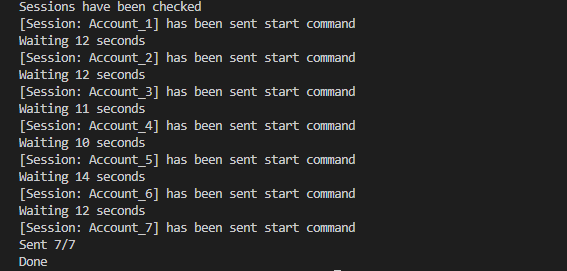
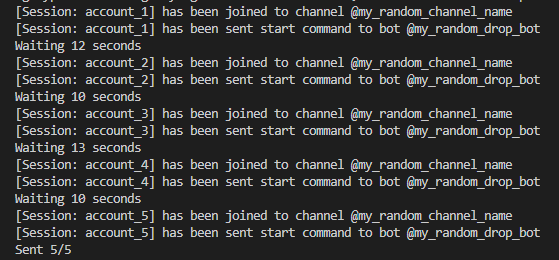
Update README.md and screenshot

Changed region(s): [[0.0, 0.0, 0.9732, 0.9846], [0.5778, 0.9846, 0.6082, 1.0]]

diff --git a/classes/main.py b/classes/main.py
@@ -82,7 +82,7 @@ class Main(Proxies, Tokens):
                         if (self.join_to_channel()):
                             print("[Session: " + token[0] + "] has been joined to channel @" + str(self.channel_name))
                     if (self.start_bot()):
-                        print("[Session: " + token[0] + "] has been sent start command")
+                        print("[Session: " + token[0] + "] has been sent start command to bot @" + str(self.target_name))
                         counter = counter + 1
                     else:
                         print("[Session: " + token[0] + "] has NOT been sent start command")

diff --git a/README.md b/README.md
@@ -1,64 +1,57 @@
 # Telegram Referral Bot
-Help to add telegram accounts with referral code to bots which have referral system 
+Script to add Telegram accounts as referrals to bots, using your invite code
 
 ![Screenshoot](https://github.com/svtcore/telegram-referral-bot/blob/main/screenshot.png)
 
-## Installation
+### 1. Install necessary libraries
 ```
 pip install -r requirements.txt
 ```
-
-## Setup
-
-### 1. Open .env file and edit values
-
+### 2. Open the .env file and edit the data according to your needs
 Description for fileds
+ - **BOT_NAME** - The public name of the bot without the @ symbol (e.g., example_random_bot)
+ - **COUNT** - The quantity of accounts to be used
+ - **REFER_ID** - Your referral ID obtained from the bot (e.g., t.me/example_random_bot?start=12345, ONLY set 12345)
+ - **CHANNEL_NAME** - The username of the channel that must be joined [OPTIONAL]
+ - **DELAY_MIN** - The minimum delay in seconds between each account's operation
+ - **DELAY_MAX** - The maximum delay in seconds between each account's operation
 
-**BOT_NAME** - public name of bot without @ symbol (example_random_bot)
-
-**COUNT** - quantity of account which will be used
-
-**REFER_ID** - your referal ID which you got from bot (t.me/example_random_bot?start=12345 , set ONLY 12345)
-
-**JOIN_CHANNEL** - enabled/disable function to join channel bot if it's required. Default is 0, to enable set 1 [OPTIONAL]
-
-**CHANNEL_NAME** - username of channel which must to be joined. Works when **JOIN_CHANNEL** is set 1 [OPTIONAL]
-
-**DELAY_MIN** - minimum delay in seconds between working each account
-
-**DELAY_MAX** - maximum delay in seconds between working each account
-
-**AUTH** - set 1 if you don't have sessions files in folder ./sessions otherwise 0
-
-**RUN** - set 1 if you have session files and want start script  
-
-### 2. Put tokens into file tokens.txt in format
+### 3. Retrieve the API_ID and API_HASH for each account
+ - Go to https://my.telegram.org. Log in to the site and create a new application; it will provide you with your credentials
+### 4. Create a file for your credentials, such as accounts.txt, and input the data in the following format:
+Example
 ```
-session_name:API_ID:API_HASH
-#example
-my_session_1:9863729:dc5795b76bdc05e1e6c653742c5ba530
+SESSION_NAME:API_ID:API_HASH
+MY_ACCOUNT_1:11223344:d54d1702ad0f8326224b817c796763c9
 ```
-(How get API_ID and API_HASH follow https://my.telegram.org autorize, create application and you will get credentials)
-
-### 3. Put proxies into file proxy.txt
-There are 3 diffrent format for proxies (ONLY SOCKS5)
+### 5. If you plan to use a proxy, create a file for it in this format:
 ```
 NO PROXY (leave file empty)
 IP:PORT
 IP:PORT:LOGIN:PASSWORD
 ```
-
-If you don't have session files in folder **sessions** you must set params AUTH=1 , RUN=1, otherwise  AUTH=0, RUN=1
-
-### 4. Run file bot.py
-
+### 6. Create session files and authorize on each account
 ```
-python bot.py
+python bot.py --auth --tokens accounts.txt
 ```
-### 5. After run script you should autorize on each account then you will get session files into folder sessions and bot starts add with your referal code
+### 7. After authorization is complete, session files will be generated in the 'sessions' folder
+### 8. Run the script to begin inviting accounts using your referral code
+```
+python bot.py --run --tokens accounts.txt
+```
+or with proxy
+```
+python bot.py --run --tokens accounts.txt --proxies proxies.txt
+```
+If the bot requires joining a channel, you should set up the channel name in the **.env** file and follow the command below
+```
+python bot.py --run --tokens accounts.txt --channel
+```
+Note: All files, such as **accounts.txt** and **proxies.txt**, must be located in the root of the project folder
 
 ## Contributing
-Pull requests are welcome. For major changes, please open an issue first to discuss what you would like to change.
+Pull requests are welcome. For major changes, please open an issue first to discuss what you would like to change. 
+If the script returns an error, open an issue with the provided error message 
 
 ## License
 [MIT](https://github.com/svtcore/telegram-referral-bot/blob/main/LICENSE)
